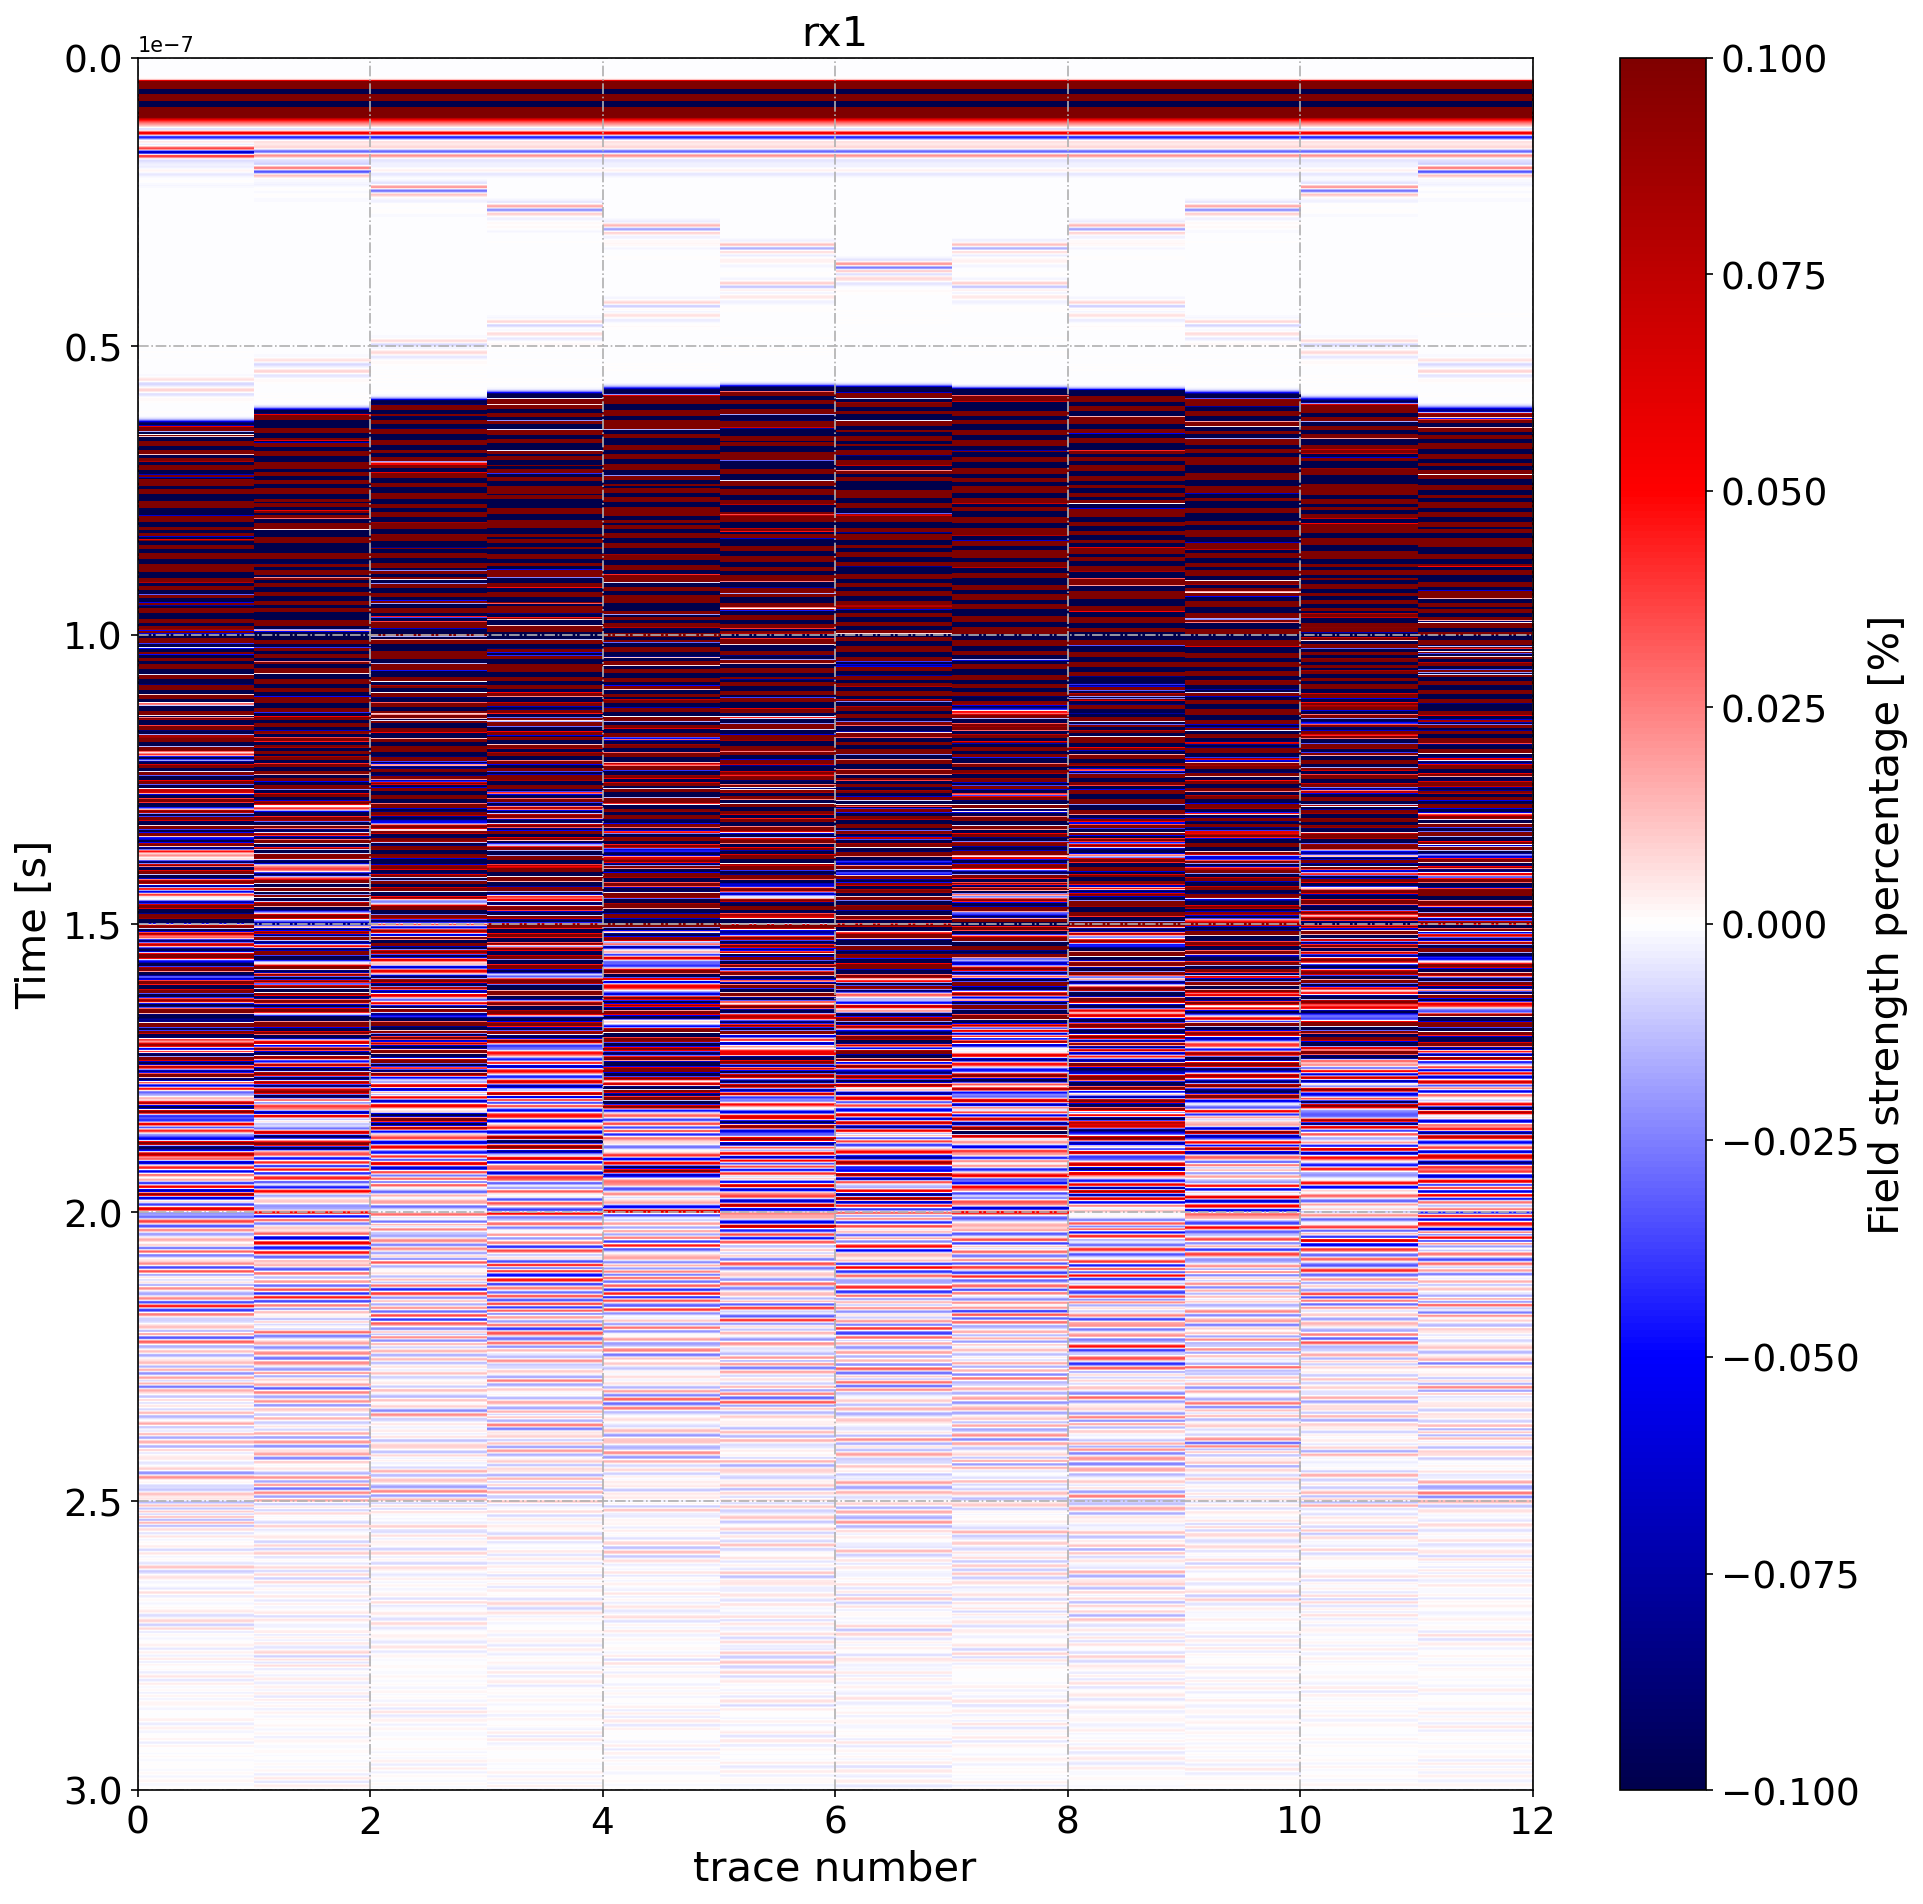
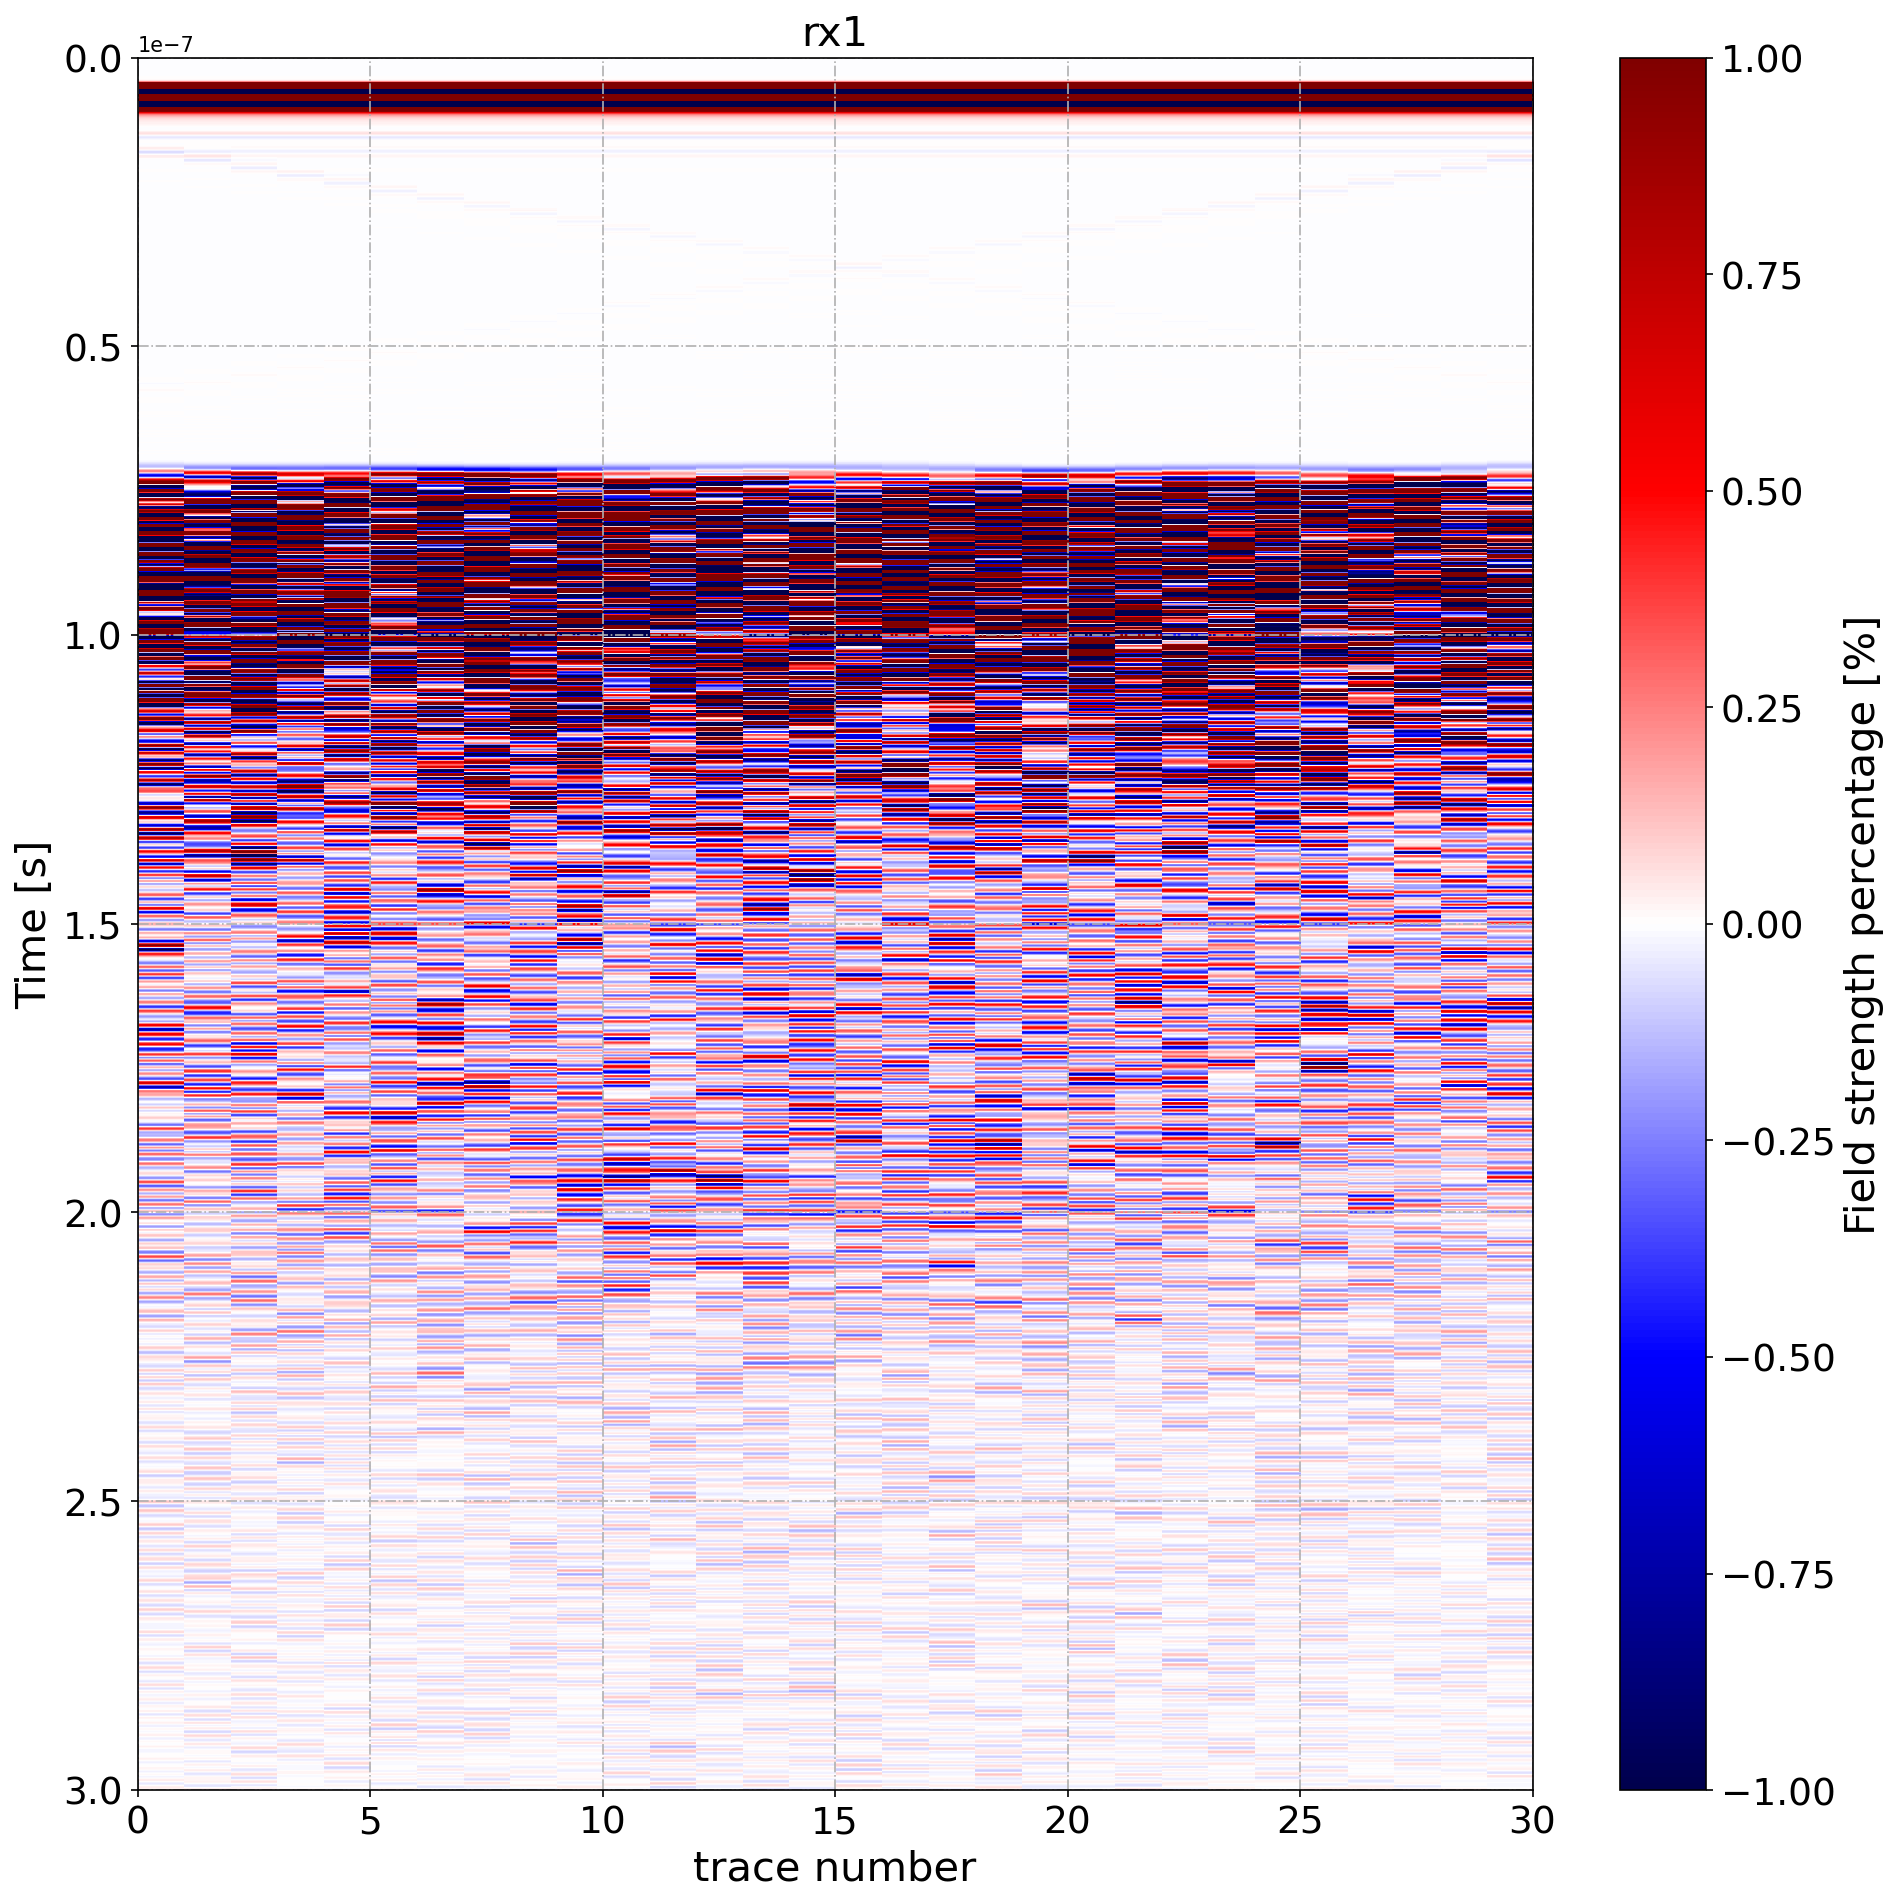
plot Bscan

diff --git a/tools/plot_Bscan.py b/tools/plot_Bscan.py
@@ -59,7 +59,7 @@ def mpl_plot(filename, outputdata, dt, rxnumber, rxcomponent, closeup=False):
 
     plt.imshow(outputdata_norm, 
              extent=[0, outputdata_norm.shape[1], outputdata_norm.shape[0] * dt, 0], 
-            interpolation='nearest', aspect='auto', cmap='seismic', vmin=-0.1, vmax=0.1)
+            interpolation='nearest', aspect='auto', cmap='seismic', vmin=-1, vmax=1)
     plt.xlabel('trace number', fontsize=20)
     plt.ylabel('Time [s]', fontsize=20)
     plt.tick_params(labelsize=18)

diff --git a/tools/plot_Ascan.py b/tools/plot_Ascan.py
@@ -262,10 +262,10 @@ if __name__ == "__main__":
     args = parser.parse_args()
 
     # for closeup option
-    closeup_x_start = 90 #[ns]
-    closeup_x_end = 92 #[ns]
-    closeup_y_start = 0 # normalized, -1~1
-    closeup_y_end = 0.002 # normalized, -1~1
+    closeup_x_start = 0 #[ns]
+    closeup_x_end = 500 #[ns]
+    closeup_y_start = -0.01 # normalized, -1~1
+    closeup_y_end = 0.01 # normalized, -1~1
 
     plthandle = mpl_plot(args.outputfile, args.outputs, fft=args.fft)
     plthandle.show()
